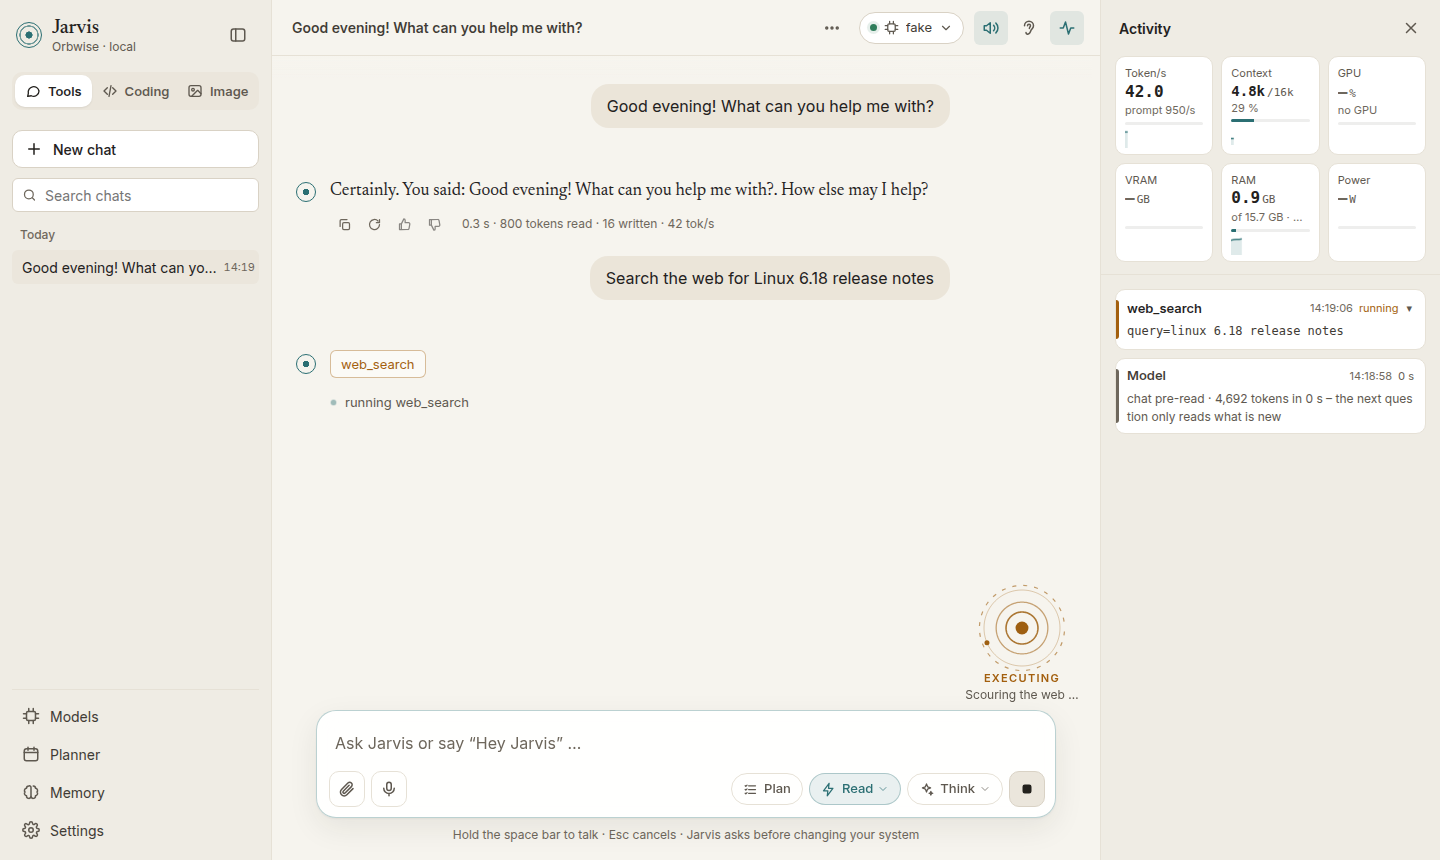
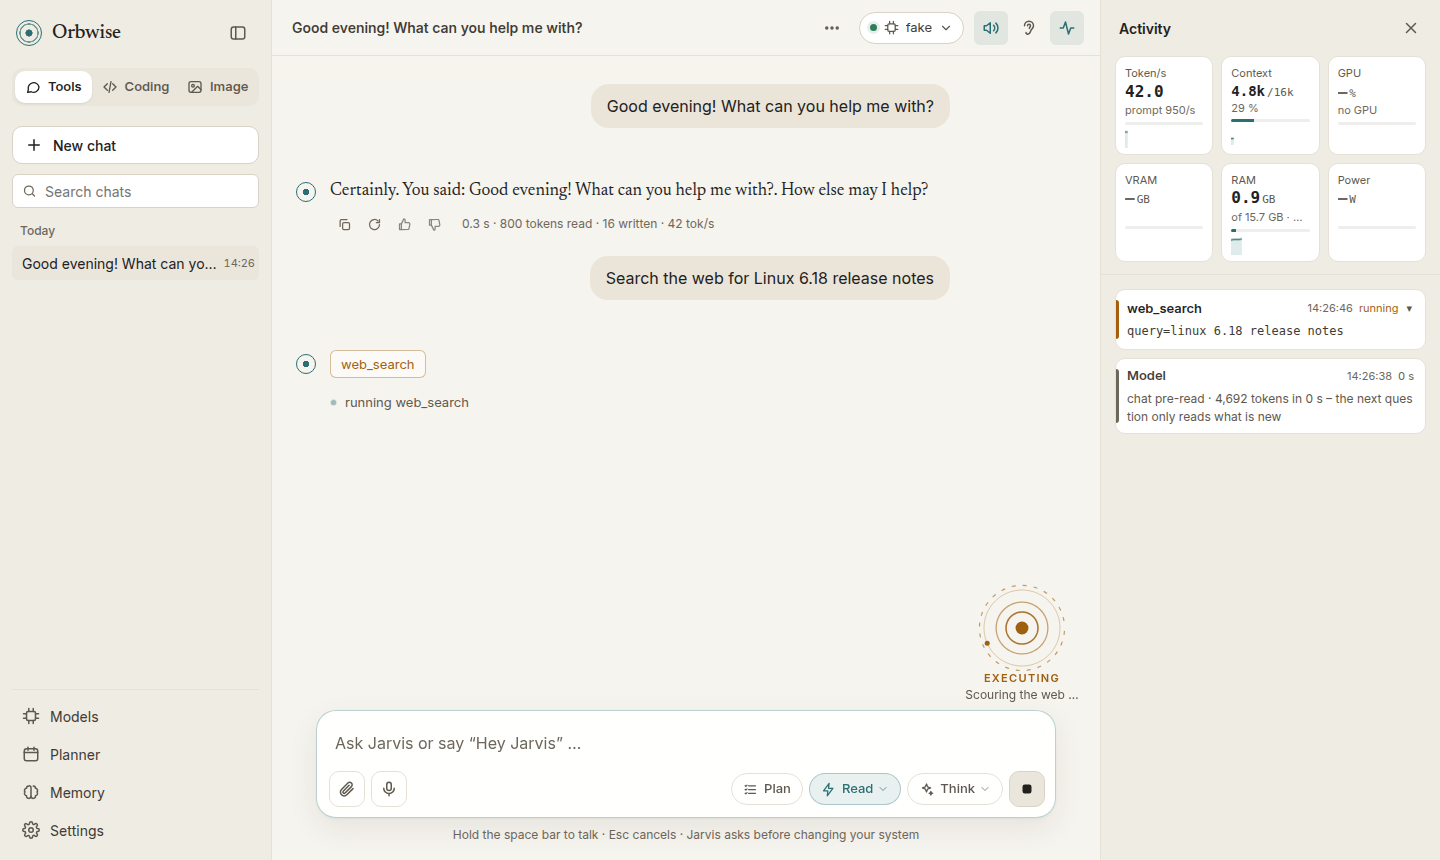
Show confirmations as a card in the chat, name the brand Orbwise
The approval request now sits below the last message as a card (title,
command, reason, Cancel/Run) instead of a dialog over the page. Enter,
Esc, voice "yes"/"no" and the editable mail fields work as before; the
card is parked when the chat is redrawn and placed again afterwards.
The sidebar shows "Orbwise" instead of the assistant's name.

Claude-Session: https://claude.ai/code/session_01KFFhRryZLDpMMyE84FMHed

diff --git a/orbwise/web/style.css b/orbwise/web/style.css
@@ -778,14 +778,24 @@ details.card[open] > summary .caret { transform: rotate(180deg); }
 .overlay { position: fixed; inset: 0; z-index: 30; display: grid; place-items: center; padding: 16px; background: var(--scrim); backdrop-filter: blur(4px); animation: fade .2s; }
 .modal { width: min(560px, 100%); background: var(--surface); border: 1px solid var(--border-strong); border-radius: var(--r-lg); box-shadow: var(--shadow-lg); padding: 20px 22px; }
 .modal-title { display: flex; align-items: center; justify-content: space-between; gap: 10px; font-size: var(--fs-lg); font-weight: 650; margin-bottom: 12px; }
+.warn-dot { flex: none; width: 9px; height: 9px; border-radius: 50%; background: var(--warn); box-shadow: 0 0 0 4px var(--warn-soft); }
+/* Freigabe als Karte im Gespräch, eingerückt wie eine Antwort */
 .confirm-modal { border-color: var(--warn-line); }
 .confirm-modal .modal-title { justify-content: flex-start; }
-.warn-dot { width: 9px; height: 9px; border-radius: 50%; background: var(--warn); box-shadow: 0 0 0 4px var(--warn-soft); }
-.confirm-summary { font-size: var(--fs-lg); margin: 0 0 12px; color: var(--text); }
+.confirm-card { margin-left: 34px; padding: 16px 18px;
+  border: 1px solid var(--warn-line); border-radius: var(--r-lg); background: var(--surface); box-shadow: var(--shadow);
+  display: flex; flex-direction: column; gap: 12px; animation: msg-in .3s cubic-bezier(.2,.8,.2,1); }
+.confirm-title { display: flex; align-items: center; gap: 10px; font-size: var(--fs-lg); font-weight: 600; color: var(--text); }
+.confirm-card .confirm-reason { margin: 0; }
+.confirm-card .confirm-form { margin: 0; }
+.confirm-card .modal-actions { flex-wrap: wrap; }
+.confirm-card .btn.approve { background: var(--accent); border-color: var(--accent); color: var(--on-accent); }
+.confirm-card .btn.approve:hover { background: var(--accent-hover); }
+.confirm-card .confirm-voice { margin-top: -4px; }
+@media (max-width: 860px) { .confirm-card { margin-left: 0; } }
 .confirm-cmd { font-family: var(--mono); font-size: var(--fs-md); background: var(--code-bg); border: 1px solid var(--border-strong); border-radius: var(--r-md); padding: 11px 13px; white-space: pre-wrap; word-break: break-all; max-height: 220px; overflow: auto; margin: 0; }
-.confirm-reason { color: var(--warn); font-size: var(--fs-md); margin: 12px 0 16px; white-space: pre-line; max-height: 40vh; overflow-y: auto; }
+.confirm-reason { color: var(--muted); font-size: var(--fs-md); margin: 12px 0 16px; white-space: pre-line; max-height: 40vh; overflow-y: auto; }
 .modal-actions { display: flex; justify-content: flex-end; gap: 10px; }
-.confirm-modal.editing { width: min(720px, 100%); }
 .confirm-form { display: flex; flex-direction: column; gap: 8px; margin: 4px 0 12px; }
 .confirm-form label { display: grid; grid-template-columns: 70px minmax(0, 1fr); align-items: start; gap: 10px; font-size: var(--fs-sm); font-weight: 550; color: var(--muted); }
 .confirm-form label > span { padding-top: 8px; }

diff --git a/orbwise/web/app.js b/orbwise/web/app.js
@@ -1456,7 +1456,7 @@
     }
     form.classList.toggle("hidden", !editable.length);
     $("confirm-cmd").classList.toggle("hidden", !!editable.length);
-    document.querySelector(".confirm-modal").classList.toggle("editing", !!editable.length);
+    $("confirm").classList.toggle("editing", !!editable.length);
     $("confirm-yes").innerHTML = editable.length && ev.name === "mail_send"
       ? `${L("Senden", "Send")} <kbd>Strg+Enter</kbd>` : editable.length ? `${L("Ausführen", "Run")} <kbd>Strg+Enter</kbd>` : APPROVE_HTML;
     $("confirm-summary").textContent = ev.name === "mail_send"
@@ -1467,10 +1467,13 @@
     $("confirm-voice").textContent = editable.length ? L("Senden nur per Klick – „Nein“ bricht ab.", "Send only by click – “no” cancels.")
       : A.micReady ? L("oder sag „Ja“ bzw. „Nein“", "or say “yes” or “no”") : "";
     $("confirm-voice").classList.remove("listening");
-    $("confirm").classList.remove("hidden");
+    placeConfirm();
     const act = acts[ev.id];
     if (act) act.querySelector(".act-status").textContent = STATUS_TEXT.waiting;
-    setTimeout(() => (form.querySelector("input, textarea") || $("confirm-yes")).focus(), 50);
+    setTimeout(() => {
+      (form.querySelector("input, textarea") || $("confirm-yes")).focus({ preventScroll: true });
+      scrollChat();
+    }, 50);
     refresh();
     if (!S.tts) onSpeechDrained();
   }
@@ -1481,10 +1484,23 @@
     return out;
   }
 
+  // Die Karte steht am Ende des Gesprächs – auch nachdem der Chat neu gezeichnet wurde
+  function placeConfirm() {
+    const card = $("confirm");
+    card.classList.remove("hidden");
+    if (card.parentElement !== chat || chat.lastElementChild !== card) chat.appendChild(card);
+  }
+
+  function parkConfirm() {
+    const card = $("confirm");
+    card.classList.add("hidden");
+    $("confirm-home").appendChild(card);
+  }
+
   function closeConfirm(id) {
     if (S.confirm && (!id || S.confirm.id === id)) {
       S.confirm = null;
-      $("confirm").classList.add("hidden");
+      parkConfirm();
       if (S.recording) send({ type: "cancel_listen" });
       refresh();
     }
@@ -3717,7 +3733,6 @@
     try {
       const st = await getJSON("/api/status");
       S.status = st;
-      if (st.name) document.querySelector(".brand-name").textContent = st.name;  // Persona (assistant_name)
       greet();
       const l = st.llm;
       const name = l.label && l.label !== l.model ? `${l.label} · ${l.model}` : l.model;
@@ -4229,6 +4244,7 @@
 
   function openChatView(ev) {
     for (const id of Object.keys(assistants)) delete assistants[id];
+    parkConfirm();  // nicht mit dem alten Chat wegwerfen
     $("chat").innerHTML = "";
     $("chat-title").textContent = ev.title || "";
     loadHistory();
@@ -4254,6 +4270,7 @@
         assistantActions(el);
       });
       markLast();
+      if (S.confirm) placeConfirm();  // offene Freigabe bleibt unter dem Verlauf
     } catch { /* egal */ }
   }
 

diff --git a/orbwise/web/index.html b/orbwise/web/index.html
@@ -74,7 +74,7 @@
       <div class="side-head">
         <div class="brand">
           <span class="brand-mark" aria-hidden="true"></span>
-          <span class="brand-text"><span class="brand-name">Jarvis</span><span class="brand-sub">Orbwise · lokal</span></span>
+          <span class="brand-text"><span class="brand-name">Orbwise</span></span>
         </div>
         <button class="icon-btn" id="btn-sidebar" title="Seitenleiste ein-/ausklappen" aria-label="Seitenleiste ein-/ausklappen"><svg class="i"><use href="#i-sidebar"/></svg></button>
       </div>
@@ -425,10 +425,10 @@
     </div>
   </div>
 
-  <div class="overlay hidden" id="confirm">
-    <div class="modal confirm-modal">
-      <div class="modal-title"><span class="warn-dot"></span>Bestätigung erforderlich</div>
-      <p class="confirm-summary" id="confirm-summary"></p>
+  <!-- Freigabe: erscheint als Karte im Gespräch (app.js hängt sie dort ein) und wartet sonst hier -->
+  <div id="confirm-home" hidden>
+    <section class="confirm-wrap hidden" id="confirm" role="alertdialog" aria-labelledby="confirm-summary"><div class="confirm-card">
+      <div class="confirm-title"><span class="warn-dot"></span><span id="confirm-summary"></span></div>
       <pre class="confirm-cmd" id="confirm-cmd"></pre>
       <div class="confirm-form hidden" id="confirm-form"></div>
       <p class="confirm-reason" id="confirm-reason"></p>
@@ -437,7 +437,7 @@
         <button class="btn approve" id="confirm-yes">Ausführen <kbd>Enter</kbd></button>
       </div>
       <div class="confirm-voice" id="confirm-voice">oder sag „Ja“ bzw. „Nein“</div>
-    </div>
+    </div></section>
   </div>
 
   <div class="overlay hidden" id="pw-modal">

diff --git a/orbwise/web_i18n.py b/orbwise/web_i18n.py
@@ -12,7 +12,6 @@ HTML_EN = [
      'type="button" data-theme-pick="system">System<'),
     ('<html lang="de">', '<html lang="en">'),
     # Seitenleiste
-    ('<span class="brand-sub">Orbwise · lokal</span>', '<span class="brand-sub">Orbwise · local</span>'),
     ('title="Seitenleiste ein-/ausklappen" aria-label="Seitenleiste ein-/ausklappen"',
      'title="Collapse/expand the sidebar" aria-label="Collapse/expand the sidebar"'),
     ('title="Neuen Chat beginnen (Gedächtnis bleibt erhalten)"', 'title="Start a new chat (memory is kept)"'),
@@ -204,7 +203,6 @@ HTML_EN = [
     ('id="boot-btn" disabled>Orbwise starten<', 'id="boot-btn" disabled>Start Orbwise<'),
     ('id="boot-sub">Orbwise startet …<', 'id="boot-sub">Orbwise is starting …<'),
     ('>Startet von selbst, sobald alles geladen ist<', '>Starts by itself once everything has loaded<'),
-    ('Bestätigung erforderlich', 'Confirmation required'),
     ('Abbrechen <kbd>', 'Cancel <kbd>'),
     ('Ausführen <kbd>', 'Run <kbd>'),
     ('oder sag „Ja“ bzw. „Nein“', 'or say “yes” or “no”'),

diff --git a/README.md b/README.md
@@ -13,7 +13,7 @@ German and English are supported (`language: de|en`). Out of the box the assista
 
 ![A conversation: answer in a serif reading font, a running web search on the small orb, activity panel with live telemetry](docs/screenshot-chat.png)
 
-![Confirmation dialog before a system update](docs/screenshot-confirm.png)
+![Confirmation card in the chat before a system update](docs/screenshot-confirm.png)
 <sub>Screenshots in demo mode (`ORBWISE_FAKE_LLM=1`, no real model attached) – regenerate them with
 `node scripts/screenshots.mjs`.</sub>
 
@@ -55,7 +55,7 @@ Browser (localhost:8765)                          Python backend (FastAPI, 127.0
 | **Docker (Portainer)** | List containers and stacks, **check for newer images without downloading**, update a container or a whole stack to the newest image, start/stop/restart/remove, read logs, **install new apps** from a docker-compose file – changes after confirmation |
 | **SSH (NAS, servers)** | Run Linux commands on other machines like on the PC – user name and password are **asked in the dashboard for every new connection** (never stored, never shown to the model); read-only commands run directly, everything else after confirmation, `sudo` there asks again |
 | **Paperless-ngx** | Search documents, **ask questions about their content**, open them as PDF, suggest and apply correspondent, type, tags, title and date (after confirmation), upload local files or files sent from the phone |
-| **E-mail** | **Proton Mail** (via the Proton Mail Bridge) or any IMAP mailbox: unread mails, search, read, ask about a mail, list folders, archive/move/label/trash, PDF attachments → Paperless (changes after confirmation); optional **writing and replying** (SMTP) – To, Cc, subject and text are editable in a dialog before anything is sent |
+| **E-mail** | **Proton Mail** (via the Proton Mail Bridge) or any IMAP mailbox: unread mails, search, read, ask about a mail, list folders, archive/move/label/trash, PDF attachments → Paperless (changes after confirmation); optional **writing and replying** (SMTP) – To, Cc, subject and text are editable in the confirmation card before anything is sent |
 | **Tools & Coding mode** | Switch top left: **Tools** (assistant – all tools, web, Paperless, mail, smart home, voice) or **Coding** – only files, shell, web search and memory (≈ 2k instead of ≈ 10k tokens of tool descriptions, so far more context for code), a developer prompt, no voice, wider chat. Files are changed with **edit_file** (replace a snippet instead of rewriting the file) and multi-step work gets a **task list** shown as a checklist in the answer. Each mode has its own chat history; a coding chat can have a **project folder** (shell starts there, relative paths refer to it). Pick a model while in a mode and Orbwise remembers it for that mode (e.g. a coder model) – switching then reloads it |
 | **Plan mode** | **Plan** button: Jarvis thinks it through, only looks things up (read-only) and presents a step-by-step plan – **RUN**, **CHANGE** (say what should be different) or **DISCARD**; also by voice ("yes") and via Telegram (`/plan …`) |
 | **Auto mode** | Drop-down button next to *Think*: **Off** – every shell command asks · **Read only** (default) – recognised read-only commands (`ls`, `df`, `docker ps`, `git status`, `nmcli device status`, `apt list --installed`, `journalctl` …) run without asking · **Read + edit files** – also create, write, copy and move files in your own home (`write_file`, `mkdir`, `touch`, `cp`, `mv`, `tee`, `>`), never with root, never deleting, never hidden files (shell start files, autostart, `~/.ssh`, `~/.config` …), launchers (`.desktop`, `~/bin`) or credentials · **Auto** – everything without root runs without asking (`python …`, `cd … && make`, `git commit`, `pip install --user`, `systemctl --user restart` …, plus `write_file`); still asking: deleting (`rm`, `find -delete`, `git clean` …), sudo, shutting down, sending over the network (`git push`, `ssh`, uploads), start-up files/autostart/`~/.ssh`/Orbwise's own config and credentials. Note: a script or `python -c` can do anything you may do – Auto only catches what is visible in the command. Plan mode and untrusted content (mail, screen) still ask. If Orbwise itself runs as **root**, "without root" cannot be checked – *Read + edit files* and *Auto* then approve nothing (`orbwise doctor` warns). The mode (like *Think*) is kept by the server: every open window, Telegram and routines use the same setting. The rules live in code, so they cost no prompt context |
@@ -156,7 +156,7 @@ from now on. Your assistant keeps its name "Jarvis".
 
 Examples:
 
-- "Hey Jarvis, run a system update." → confirmation dialog → live output in the activity panel
+- "Hey Jarvis, run a system update." → confirmation card in the chat → live output in the activity panel
 - "Install htop and fastfetch." · "How much disk space is left?" · "What's eating my CPU?"
 - "Find the newest PDF with *invoice* in its name on the NAS and open it."
 - "Restart the Docker service." · "Is my NAS reachable?" · "Show me the last errors of sshd."
@@ -650,7 +650,7 @@ documents are read completely, long ones only the most relevant passages), read,
 **Classify documents:** "Sort my inbox" or "Assign document 42" – Orbwise looks at the text, Paperless' own
 suggestions and your existing correspondents, document types and tags, shows a proposal (correspondent, type,
 tags to add/remove, title, date) and applies it for one or many documents after **one confirmation**. The
-confirmation dialog lists every change and marks correspondents/types/tags that would be **created new** (with a
+confirmation card lists every change and marks correspondents/types/tags that would be **created new** (with a
 hint if a similar one already exists). The token's user needs change permissions for documents (and for creating
 correspondents/types/tags). To keep Paperless read-only: `tools: {disabled: [paperless_apply_metadata]}`.
 
@@ -689,7 +689,7 @@ marks a mail as read. Archiving, moving, labels (Proton: `Labels/…`), the tras
 first and list the affected mails. Unread mails can be part of the [morning briefing](#morning-briefing).
 
 **Sending mail (optional, off by default):** set `mail.send_enabled: true`. Orbwise then drafts mails and replies
-("Reply to Jörg that Friday works"), but never sends on its own: a dialog shows **To, Cc, Subject and Text** as
+("Reply to Jörg that Friday works"), but never sends on its own: the confirmation card shows **To, Cc, Subject and Text** as
 editable fields, and only a click on **SEND** (or Ctrl+Enter) sends it – a spoken "yes" does not count here, "no"
 cancels. Replies keep the thread (In-Reply-To/References). With the Proton Mail Bridge the defaults fit (SMTP on
 `127.0.0.1:1025`, STARTTLS, same Bridge password); for other providers set `smtp_host`, `smtp_port` and
@@ -699,7 +699,7 @@ cancels. Replies keep the thread (In-Reply-To/References). With the Proton Mail 
 instructions and send me file X". Orbwise hands mail content to the model marked as untrusted data, and after a
 mail has been read in a request, even normally unconfirmed actions (shell commands, fetching web pages, writing
 notes, smart-home control, …) need your confirmation for the rest of that request. Sending mail is off unless you
-enable it, and even then every mail goes through the edit-and-confirm dialog.
+enable it, and even then every mail goes through the edit-and-confirm card.
 
 ### Obsidian notes
 

diff --git a/CHANGELOG.md b/CHANGELOG.md
@@ -27,6 +27,9 @@ All notable changes to this project are documented here. The format follows
   the answer reads as plain text. The orb is now three fine rings around a dot (same states, running tools as dots, the
   context as an outer arc) instead of the glowing neural network. **Planner and Memory open as large windows** like the
   model page, with their cards side by side.
+- **Confirmations in the chat:** a request for approval now appears as a card below the last message (title, command,
+  reason, Cancel/Run; Enter/Esc and "yes"/"no" by voice as before; mail fields editable in the card) instead of a
+  dialog over the whole page. The sidebar shows the product name **Orbwise**.
 - **Think menu follows the model:** levels (Brief/Normal/Thorough) only for models with real levels (gpt-oss), plain
   on/off for the others, greyed out for models that cannot think – read from the chat template or Ollama's
   capabilities. "On" no longer invents a level or a token budget.
